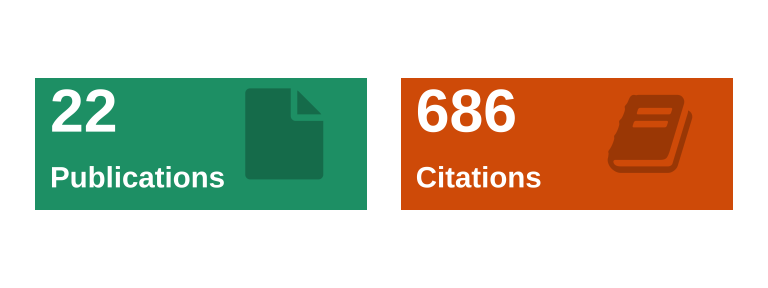
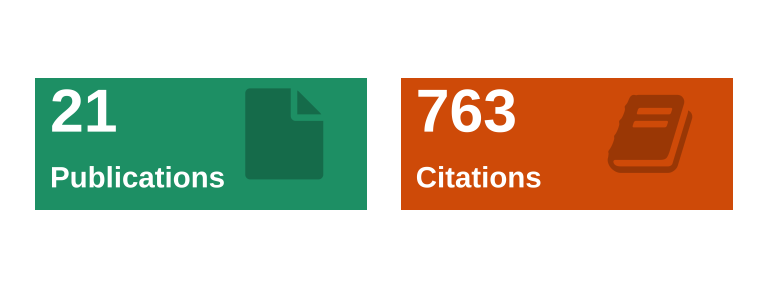
update 01.2023

Changed region(s): [[0.5312, 0.3125, 0.6875, 0.4688], [0.0938, 0.3125, 0.1562, 0.4375]]

diff --git a/publications.html b/publications.html
@@ -13,7 +13,7 @@
 
 <title>Publications</title>
 
-<script src="site_libs/header-attrs-2.14/header-attrs.js"></script>
+<script src="site_libs/header-attrs-2.18/header-attrs.js"></script>
 <script src="site_libs/jquery-3.6.0/jquery-3.6.0.min.js"></script>
 <meta name="viewport" content="width=device-width, initial-scale=1" />
 <link href="site_libs/bootstrap-3.3.5/css/cosmo.min.css" rel="stylesheet" />
@@ -146,11 +146,15 @@ $(document).ready(function () {
     href = "index.html";
   var menuAnchor = $('a[href="' + href + '"]');
 
-  // mark it active
-  menuAnchor.tab('show');
-
-  // if it's got a parent navbar menu mark it active as well
-  menuAnchor.closest('li.dropdown').addClass('active');
+  // mark the anchor link active (and if it's in a dropdown, also mark that active)
+  var dropdown = menuAnchor.closest('li.dropdown');
+  if (window.bootstrap) { // Bootstrap 4+
+    menuAnchor.addClass('active');
+    dropdown.find('> .dropdown-toggle').addClass('active');
+  } else { // Bootstrap 3
+    menuAnchor.parent().addClass('active');
+    dropdown.addClass('active');
+  }
 
   // Navbar adjustments
   var navHeight = $(".navbar").first().height() + 15;
@@ -179,8 +183,8 @@ $(document).ready(function () {
   border-radius: 4px;
 }
 
-.tabset-dropdown > .nav-tabs > li.active:before {
-  content: "";
+.tabset-dropdown > .nav-tabs > li.active:before, .tabset-dropdown > .nav-tabs.nav-tabs-open:before {
+  content: "\e259";
   font-family: 'Glyphicons Halflings';
   display: inline-block;
   padding: 10px;
@@ -188,16 +192,9 @@ $(document).ready(function () {
 }
 
 .tabset-dropdown > .nav-tabs.nav-tabs-open > li.active:before {
-  content: "&#xe258;";
-  border: none;
-}
-
-.tabset-dropdown > .nav-tabs.nav-tabs-open:before {
-  content: "";
+  content: "\e258";
   font-family: 'Glyphicons Halflings';
-  display: inline-block;
-  padding: 10px;
-  border-right: 1px solid #ddd;
+  border: none;
 }
 
 .tabset-dropdown > .nav-tabs > li.active {
@@ -341,7 +338,7 @@ $(document).ready(function () {
 <div class="publication">
 <table class="table table-striped table-hover" style="margin-left: auto; margin-right: auto;">
 <caption>
-22 publications (co-)authored byDr. Lukas Schrader (<a
+21 publications (co-)authored byDr. Lukas Schrader (<a
 href="https://scholar.google.de/citations?user=sH4_TPkAAAAJ">google
 scholar</a>)
 </caption>
@@ -362,6 +359,21 @@ Year
 </tr>
 </thead>
 <tbody>
+<tr>
+<td style="text-align:left;">
+Polygenic adaptation contributes to the invasive success of the Colorado
+potato beetle
+</td>
+<td style="text-align:left;">
+F Yang, MS Crossley, L Schrader, IM Dubovskiy, SJ Wei, R Zhang
+</td>
+<td style="text-align:left;">
+Molecular Ecology
+</td>
+<td style="text-align:right;">
+2022
+</td>
+</tr>
 <tr>
 <td style="text-align:left;">
 Genetic and genomic architecture of species-specific cuticular
@@ -456,20 +468,6 @@ evolution
 </tr>
 <tr>
 <td style="text-align:left;">
-The Pogonomyrmex californicus social niche polymorphism is a polygenic
-trait involving a young supergene
-</td>
-<td style="text-align:left;">
-M Errbii, UR Ernst, A Lajmi, E Privman, J Gadau, L Schrader
-</td>
-<td style="text-align:left;">
-</td>
-<td style="text-align:right;">
-2021
-</td>
-</tr>
-<tr>
-<td style="text-align:left;">
 Genomic architecture and evolutionary dynamics of a social niche
 polymorphism in the California harvester ant, Pogonomyrmex californicus
 </td>
@@ -478,19 +476,6 @@ M Errbii, UR Ernst, A Lajmi, J Gadau, L Schrader
 </td>
 <td style="text-align:left;">
 bioRxiv
-</td>
-<td style="text-align:right;">
-2021
-</td>
-</tr>
-<tr>
-<td style="text-align:left;">
-Genetic redundancy resolves invasion paradox in Colorado potato beetle
-</td>
-<td style="text-align:left;">
-F Yang, M Crossley, L Schrader, I Dubovskiy, R Zhang
-</td>
-<td style="text-align:left;">
 </td>
 <td style="text-align:right;">
 2021
@@ -571,21 +556,6 @@ Molecular Biology and Evolution
 </tr>
 <tr>
 <td style="text-align:left;">
-Evolution of social insect polyphenism facilitated by the sex
-differentiation cascade
-</td>
-<td style="text-align:left;">
-A Klein, E Schultner, H Lowak, L Schrader, J Heinze, L Holman, J Oettler
-</td>
-<td style="text-align:left;">
-PLoS genetics
-</td>
-<td style="text-align:right;">
-2016
-</td>
-</tr>
-<tr>
-<td style="text-align:left;">
 A novel intracellular mutualistic bacterium in the invasive ant
 Cardiocondyla obscurior
 </td>
@@ -594,6 +564,21 @@ A Klein, L Schrader, R Gil, A Manzano-Marín, L Flórez, D Wheeler, …
 </td>
 <td style="text-align:left;">
 The ISME journal
+</td>
+<td style="text-align:right;">
+2016
+</td>
+</tr>
+<tr>
+<td style="text-align:left;">
+Evolution of social insect polyphenism facilitated by the sex
+differentiation cascade
+</td>
+<td style="text-align:left;">
+A Klein, E Schultner, H Lowak, L Schrader, J Heinze, L Holman, J Oettler
+</td>
+<td style="text-align:left;">
+PLoS genetics
 </td>
 <td style="text-align:right;">
 2016
@@ -704,7 +689,7 @@ The Plant Cell
 <div class="publication">
 <table class="table table-striped table-hover" style="margin-left: auto; margin-right: auto;">
 <caption>
-5 publications (co-)authored byMohammed Errbii (<a
+4 publications (co-)authored byMohammed Errbii (<a
 href="https://scholar.google.de/citations?user=59ha_gEAAAAJ">google
 scholar</a>)
 </caption>
@@ -765,21 +750,6 @@ trait involving a young supergene
 M Errbii, UR Ernst, A Lajmi, E Privman, J Gadau, L Schrader
 </td>
 <td style="text-align:left;">
-</td>
-<td style="text-align:right;">
-2021
-</td>
-</tr>
-<tr>
-<td style="text-align:left;">
-Genomic architecture and evolutionary dynamics of a social niche
-polymorphism in the California harvester ant, Pogonomyrmex californicus
-</td>
-<td style="text-align:left;">
-M Errbii, UR Ernst, A Lajmi, J Gadau, L Schrader
-</td>
-<td style="text-align:left;">
-bioRxiv
 </td>
 <td style="text-align:right;">
 2021

diff --git a/team.html b/team.html
@@ -13,7 +13,7 @@
 
 <title>Team</title>
 
-<script src="site_libs/header-attrs-2.14/header-attrs.js"></script>
+<script src="site_libs/header-attrs-2.18/header-attrs.js"></script>
 <script src="site_libs/jquery-3.6.0/jquery-3.6.0.min.js"></script>
 <meta name="viewport" content="width=device-width, initial-scale=1" />
 <link href="site_libs/bootstrap-3.3.5/css/cosmo.min.css" rel="stylesheet" />
@@ -144,11 +144,15 @@ $(document).ready(function () {
     href = "index.html";
   var menuAnchor = $('a[href="' + href + '"]');
 
-  // mark it active
-  menuAnchor.tab('show');
-
-  // if it's got a parent navbar menu mark it active as well
-  menuAnchor.closest('li.dropdown').addClass('active');
+  // mark the anchor link active (and if it's in a dropdown, also mark that active)
+  var dropdown = menuAnchor.closest('li.dropdown');
+  if (window.bootstrap) { // Bootstrap 4+
+    menuAnchor.addClass('active');
+    dropdown.find('> .dropdown-toggle').addClass('active');
+  } else { // Bootstrap 3
+    menuAnchor.parent().addClass('active');
+    dropdown.addClass('active');
+  }
 
   // Navbar adjustments
   var navHeight = $(".navbar").first().height() + 15;
@@ -177,8 +181,8 @@ $(document).ready(function () {
   border-radius: 4px;
 }
 
-.tabset-dropdown > .nav-tabs > li.active:before {
-  content: "";
+.tabset-dropdown > .nav-tabs > li.active:before, .tabset-dropdown > .nav-tabs.nav-tabs-open:before {
+  content: "\e259";
   font-family: 'Glyphicons Halflings';
   display: inline-block;
   padding: 10px;
@@ -186,16 +190,9 @@ $(document).ready(function () {
 }
 
 .tabset-dropdown > .nav-tabs.nav-tabs-open > li.active:before {
-  content: "&#xe258;";
-  border: none;
-}
-
-.tabset-dropdown > .nav-tabs.nav-tabs-open:before {
-  content: "";
+  content: "\e258";
   font-family: 'Glyphicons Halflings';
-  display: inline-block;
-  padding: 10px;
-  border-right: 1px solid #ddd;
+  border: none;
 }
 
 .tabset-dropdown > .nav-tabs > li.active {
@@ -355,35 +352,6 @@ eyes open for new adventures. <br>
 <br>
 <div class="people">
 <p class="people">
-<img class="people" src="files/people/na.png"> <b> Rebecca Rothering
-(PhD student) </b> → The evolutionary significance of TEs in ants.<br>
-Transposable elements (TEs) impact genome evolution in many different
-ways. Amongst other things, they can disrupt or duplicate protein-coding
-genes, alter splicing patterns, and enhance or repress gene expression.
-Although many of this TE-introduced genetic variation is likely to be
-deleterious, it has become increasingly clear that TEs may also play an
-important role in adaptation, e.g. in the invasive ant <i>Cardiocondyla
-obscurior</i>. This species’ genome has a peculiar compartmentalized
-structure: in a genomic background containing only few TEs exist “TE
-islands”, regions with high TE density and enriched in fast evolving
-gene families (such as olfactory receptors) considered important for the
-colonization of novel environments. As part of the Global Ants Genomics
-Alliance (GAGA), many more ant genomes have been sequenced and
-comparative analyses on TE content and distribution will help us to
-better understand TE evolution in ants and answer questions like “Is the
-existence of TE islands unique to Cardiocondyla obscurior or do we find
-them in other (invasive) ant species as well?” Such analyses rely on
-having a good TE annotation of the genomes under study in the first
-place, though. Usually, this involves a very time- and labour-intensive
-manual curation step, which is not feasible given the large number of
-genomes in the GAGA project. Therefore, I am currently trying to improve
-upon these annotations by substituting the manual curation step with a
-bioinformatic pipeline. <br>
-</p>
-</div>
-<br>
-<div class="people">
-<p class="people">
 <img class="people" src="files/people/esther.jpg"> <b> Esther van den
 Boes (PhD student) </b> → Rapid evolution and TE-induced genetic
 variation in invasive ants.<br> The constant need to adapt is met
@@ -440,6 +408,14 @@ data as part of the Global Ant Genomics Alliance. <br>
 <br>
 <div class="people">
 <p class="people">
+<img class="people" src="files/people/na.png"> <b> Joshua Grebe (MSc
+student) </b> → Canalization and phenotypic robustness of
+superorganisms.<br> <br>
+</p>
+</div>
+<br>
+<div class="people">
+<p class="people">
 <img class="people" src="files/people/sandra.jpg"> <b> Sandra Tretter
 (MSc student) </b> → Micromorphology in ants, with an emphasis on social
 parasites. <br>
@@ -467,6 +443,8 @@ in ants</li>
 obscurior</em></li>
 <li><strong>Maja Drakula:</strong> The role of CHCs in aggressive
 interactions in <em>Cardiocondyla obscurior</em></li>
+<li><strong>Rebecca Rothering:</strong> The evolutionary significance of
+TEs in ants</li>
 </ul>
 
 <p>Copyright &copy; 2021 Lukas Schrader</p>

diff --git a/site_libs/header-attrs-2.18/header-attrs.js b/site_libs/header-attrs-2.18/header-attrs.js
@@ -1,0 +1,12 @@
+// Pandoc 2.9 adds attributes on both header and div. We remove the former (to
+// be compatible with the behavior of Pandoc < 2.8).
+document.addEventListener('DOMContentLoaded', function(e) {
+  var hs = document.querySelectorAll("div.section[class*='level'] > :first-child");
+  var i, h, a;
+  for (i = 0; i < hs.length; i++) {
+    h = hs[i];
+    if (!/^h[1-6]$/i.test(h.tagName)) continue;  // it should be a header h1-h6
+    a = h.attributes;
+    while (a.length > 0) h.removeAttribute(a[0].name);
+  }
+});
